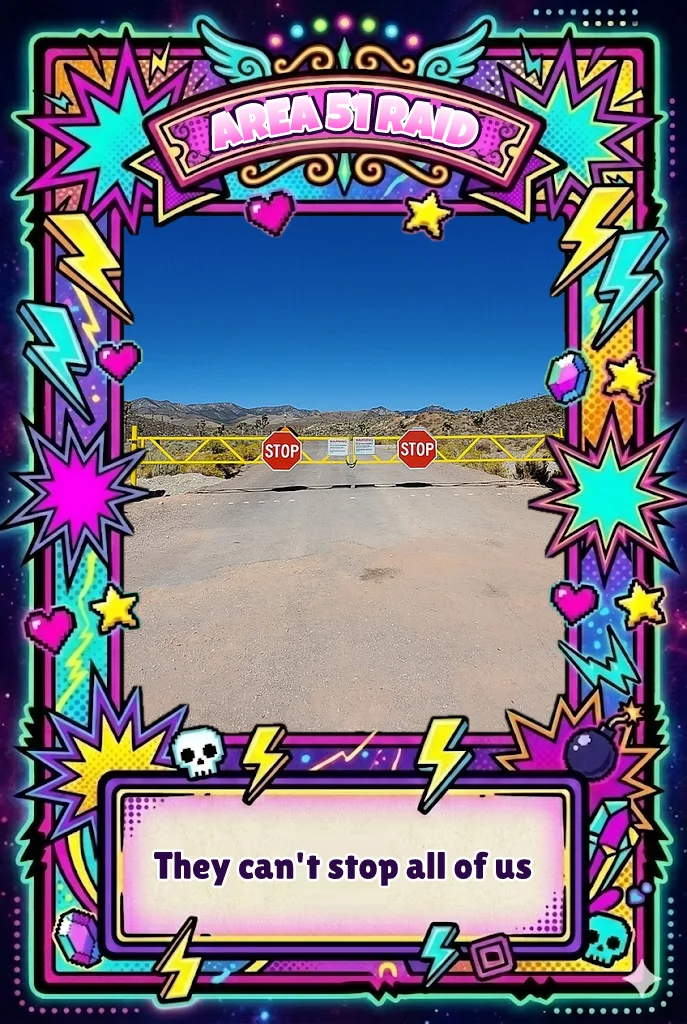
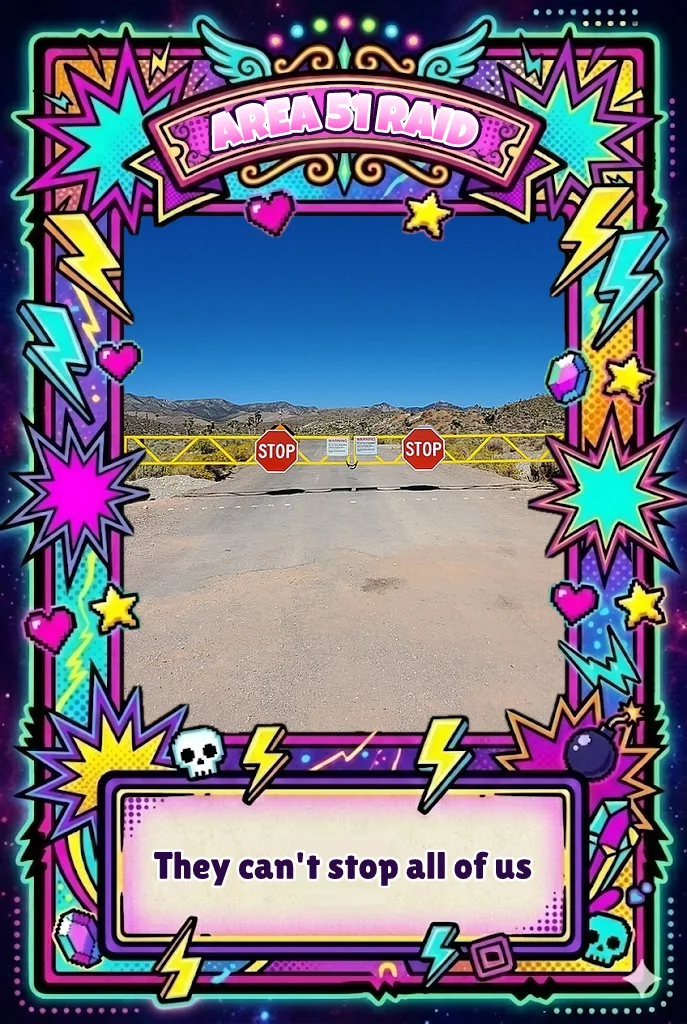
Release Vine & Dank (2013–2019) with real meme images for every card
Woman Yelling at a Cat (Brainrot, the Smudge panel), Dat Boi, Road Work
Ahead, Area 51 Raid, Galaxy Brain, Mr. Skeltal, Mocking SpongeBob, Moth
Lamp, All Those Chickens, Dancing Hot Dog, OK Boomer and Fidget Spinner.

Swapped out: Doge (its licensee sued over the photos in Jan 2026) and
Dropped My Croissant (every image centres on a private person). Sources,
owners and licences are in CREDITS.md. Locks vine-and-dank@1.

Claude-Session: https://claude.ai/code/session_019EguSi8fJWokM3LRyjoEkU

diff --git a/src/content/sets/index.ts b/src/content/sets/index.ts
@@ -10,13 +10,14 @@
 import { setKey, validateSet, type CardDefinition, type SetDefinition } from '../../engine';
 import genesis from './genesis/set.json';
 import webAncients from './web-ancients/set.json';
+import vineAndDank from './vine-and-dank/set.json';
 import lockdownLore from './lockdown-lore/set.json';
 import genAlphaUprising from './gen-alpha-uprising/set.json';
 import italianBrainrotDeepCuts from './italian-brainrot-deep-cuts/set.json';
 import rightNow from './right-now/set.json';
 
 /** Every version of every set. Display order = timeline order (Genesis first). */
-export const ALL_SET_VERSIONS: SetDefinition[] = [genesis, webAncients, lockdownLore, genAlphaUprising, italianBrainrotDeepCuts, rightNow].map((s) => validateSet(s));
+export const ALL_SET_VERSIONS: SetDefinition[] = [genesis, webAncients, vineAndDank, lockdownLore, genAlphaUprising, italianBrainrotDeepCuts, rightNow].map((s) => validateSet(s));
 
 const byKey = new Map(ALL_SET_VERSIONS.map((s) => [setKey(s), s]));
 if (byKey.size !== ALL_SET_VERSIONS.length) throw new Error('Duplicate set@version in registry');

diff --git a/src/content/sets/vine-and-dank/CREDITS.md b/src/content/sets/vine-and-dank/CREDITS.md
@@ -1,0 +1,44 @@
+# Vine & Dank: image credits
+
+These are the real meme images used for card art. Each one was downloaded once, checked with Pillow,
+re-encoded to PNG (which strips metadata) and cropped to the art window's 6:7 portrait shape. Code adds
+the frame, title and caption. All rights stay with the owners listed below. The set is still a draft.
+
+For the ten images from the first pass, I downloaded each listed URL again and matched it against that
+pass's download. Eight matched byte for byte. I re-cropped Area 51 from the same file. I replaced the
+OK Boomer and All Those Chickens images with copies whose sources I could trace (see their notes).
+
+| Card | Source page | Image URL | Creator / owner | Notes |
+| --- | --- | --- | --- | --- |
+| Fidget Spinner (`fidget-spinner`) | https://commons.wikimedia.org/wiki/File:Fidget_spinner_red,_cropped.jpg (entry: https://knowyourmeme.com/memes/subcultures/fidget-spinners) | https://upload.wikimedia.org/wikipedia/commons/thumb/f/f3/Fidget_spinner_red%2C_cropped.jpg/1280px-Fidget_spinner_red%2C_cropped.jpg | Photo by Árni Dagur (Wikimedia user ArniDagur), May 28, 2017. **CC0** (public domain dedication) | KYM's main image is a small 360×297 product shot, so I used this clean, freely licensed photo of the 2017 fad toy. 1280 px Commons thumbnail of the 2671×2671 original. |
+| OK Boomer (`ok-boomer`) | https://globalnews.ca/news/6133526/ok-boomer-meaning-chloe-swarbrick/ (entry: https://knowyourmeme.com/memes/ok-boomer) | https://globalnews.ca/wp-content/uploads/2019/11/swarbrick.jpg | Parliament TV footage of the New Zealand House of Representatives, Nov 5, 2019 (Zero Carbon Bill second reading). Shows Green MP Chlöe Swarbrick | KYM's main image is only the words "Ok Boomer". Swarbrick is a public figure, and this is her famous meme moment. The first pass used a 1280×720 copy of this footage that I couldn't trace, so I swapped in this larger, documented still. The crop leaves out the "Speech 10 of 12" badge and Minister James Shaw. NZ Parliament's Standing Orders limit how House footage can be reused. Political advertising needs consent, and older versions of the rules barred commercial use (the satire ban was dropped in the late 2010s). Check the current rules before release. |
+| Dancing Hot Dog (`dancing-hot-dog`) | https://knowyourmeme.com/memes/dancing-hot-dog-snapchat-filter | https://i.kym-cdn.com/entries/icons/original/000/023/354/Screen_Shot_2017-07-05_at_11.59.26_AM.jpg | Snap Inc. (Snapchat World Lens, June 2017) | KYM's main image, a phone screenshot with no text. Faint purple scanlines from the screen capture remain. Searches found no takedowns or lawsuits (Snap sells its own hot dog merch). |
+| All Those Chickens (`all-those-chickens`) | https://tenor.com/view/look-at-all-those-chickens-chicken-look-lots-of-chickens-gif-3562428 (KYM has no entry, only a photo: https://knowyourmeme.com/photos/2118765) | https://media1.tenor.com/m/mXuaduc_jzkAAAAC/look-at-all-those-chickens-chicken.gif | Original Vine. I couldn't identify the uploader | Frame 96 of the GIF: snow geese and houses only. The narrator is a young girl, and she appears in other frames, so I picked a frame without her. The first pass used an untraced 496×280 copy of the same clip (it matched this GIF within re-encoding noise), so I re-cropped from this documented copy. The source is a 497×280 GIF, so the crop is only 239×279 and soft. Moved from UNCOMMON to COMMON (see below). |
+| Moth Lamp (`moth-lamp`) | https://knowyourmeme.com/photos/1413783-moth-lamp (entry: https://knowyourmeme.com/memes/moth-lamp) | https://i.kym-cdn.com/photos/images/original/001/413/783/c81.jpg | Photo by Redditor u/No_Reason27 ("Close up of moth outside my window", July 14, 2018) | The original photo, from a screenshot of the Reddit post in KYM's origin section. The crop stays inside the photo, so none of Reddit's interface text shows. Crop is 389×455. |
+| Mocking SpongeBob (`mocking-spongebob`) | https://knowyourmeme.com/memes/mocking-spongebob | https://i.kym-cdn.com/entries/icons/original/000/022/940/mockingspongebobbb.jpg | Still from *SpongeBob SquarePants*, "Little Yellow Book" (Nov 25, 2012), owned by Nickelodeon / Paramount. Meme started with Twitter user @OGBEARD on May 4, 2017 | KYM's main image: SpongeBob cut out on white, with no text. He's wider than the card, so I extended the white background above and below him instead of cutting into him. I found no takedowns or lawsuits over the meme, and Nickelodeon embraced it: it's SpongeBob's taunt in *Nickelodeon All-Star Brawl* (2021). New card (see below). |
+| Mr. Skeltal (`mr-skeltal`) | https://knowyourmeme.com/memes/skull-trumpet-doot-doot | https://i.kym-cdn.com/entries/icons/original/000/011/121/Jazzy_Skull.gif | "jazzskull.gif" by Cathy Jarboe, posted on her site cjarboe.com in 1999 (credited by KYM after YouTuber Jeffiot traced it in Dec 2023) | First frame of KYM's main GIF, on black, with no text. |
+| Galaxy Brain (`galaxy-brain`) | https://imgflip.com/memetemplate/Expanding-Brain (entry: https://knowyourmeme.com/memes/galaxy-brain) | https://i.imgflip.com/1jwhww.jpg | The brain artwork in the template is uncredited. The format spread from r/dankmemes (post by janskishimanski, Jan 31, 2017) | Crop of the template's last panel, the glowing "galaxy brain", with no text. KYM's main image is a small 455×278 two-panel crop. |
+| Area 51 Raid (`area-51-raid`) | https://commons.wikimedia.org/wiki/File:Area_51_Main_Gate.jpg (entry: https://knowyourmeme.com/memes/events/storm-area-51) | https://upload.wikimedia.org/wikipedia/commons/thumb/1/14/Area_51_Main_Gate.jpg/1280px-Area_51_Main_Gate.jpg | Photo by David James Henry (Wikimedia user RobotGoggles), Sept 22, 2019. **CC BY-SA 4.0**: credit him, and share the cropped version under the same license | Taken two days after the Sept 20, 2019 "raid" date. KYM's main image looks like a Getty Images photo (its file name starts with `GTY_`), so I didn't use it. I re-cropped tighter on the stop signs so they read at card size. |
+| Road Work Ahead (`road-work-ahead`) | https://commons.wikimedia.org/wiki/File:Road_Work_Ahead.jpg (entry: https://knowyourmeme.com/memes/road-work-ahead) | https://upload.wikimedia.org/wikipedia/commons/thumb/4/4f/Road_Work_Ahead.jpg/1280px-Road_Work_Ahead.jpg | Photo by Wikimedia user JimboGimmeJoe ("own work", Aug 24, 2026). **CC BY 4.0**: credit required. The meme is Drew Gooden's 2016 Vine | KYM's main image is a YouTube thumbnail of the Vine. This is a clean photo of the sign the Vine is about. The sign's printed words are the meme, so they stay. |
+| Dat Boi (`dat-boi`) | https://knowyourmeme.com/photos/2114213-dat-boi (entry: https://knowyourmeme.com/memes/dat-boi) | https://i.kym-cdn.com/photos/images/original/002/114/213/714.gif | 3D clip art from Animation Factory (designer Josh Doohen, uploaded 2003). The meme took off on Tumblr and Twitter in 2015–2016 | A GIF frame from KYM's gallery, on white, with no text. KYM's main image (`HereDatBoi.jpg`) has the caption text, so I didn't use it. I found no takedowns or lawsuits. |
+| Woman Yelling at a Cat (`woman-yelling-at-a-cat`) | https://knowyourmeme.com/memes/smudge-the-cat (entry: https://knowyourmeme.com/memes/woman-yelling-at-a-cat) | https://i.kym-cdn.com/entries/icons/original/000/030/729/smudgeyyy.jpg | Smudge the cat, owned by Miranda Stillabower (Ottawa). The photo was posted by Tumblr user deadbefordeath, "he no like vegetals" (June 19, 2018). The woman panel is Taylor Armstrong and Kyle Richards in *The Real Housewives of Beverly Hills* (Bravo, Dec 5, 2011). The two were first paired by Twitter user @MISSINGEGIRL (May 1, 2019) | The right half of KYM's Smudge header: the dinner-table photo, with no text. The left half (another Smudge photo) isn't used. A two-panel meme doesn't fit a portrait card, so the card shows the cat panel, which is famous on its own (over a million Instagram followers as @smudge_lord). Searches found no lawsuits, takedowns or trademark filings. New BRAINROT card (see below). |
+
+## Replaced cards
+
+| Removed card | Replaced by | Why |
+| --- | --- | --- |
+| Dropped My Croissant (`dropped-my-croissant`, COMMON) | Mocking SpongeBob (UNCOMMON). All Those Chickens moved down to fill the COMMON slot | The 2014 Vine and KYM's main image (https://i.kym-cdn.com/entries/icons/original/000/036/917/croissantcover.jpg, from https://knowyourmeme.com/memes/i-couldve-dropped-my-croissant) are all about a private individual. A croissant photo isn't the meme, so no famous image works without him. |
+| Doge (`doge`, BRAINROT) | Woman Yelling at a Cat (BRAINROT) | The rights owner enforces. In Jan 2024, Kabosu's owner Atsuko Sato gave Doge LLC (the "Own The Doge" group) an exclusive license to the Doge Meme, covering merchandise, games, plush toys and meme coins, with the right to "register, enforce, defend". On Jan 6, 2026, Doge LLC filed a federal copyright and Lanham Act suit over Sato's dog photos: *Doge LLC v. Cocoro Community Project, Inc.*, D.N.J. No. 2:26-cv-00072 (complaint: https://assets.alm.com/19/8d/58cbebf54723a7c24e22d0735131/doge-v-cocoro-community-project-complaint-u-s-distict-court-for-the-district-of-new-jersey.pdf). In 2024 the group said it wouldn't go after people making memes (https://cointelegraph.com/news/doge-image-kabosu-rights-dao-meme), but a card game is exactly the commercial use it licenses. |
+
+### How the replacements were picked
+
+- **Woman Yelling at a Cat** has the most KYM views of any usable 2013–2019 meme I checked: 5.4M, against
+  Dat Boi's 3.6M and Doge's 14.7M. That's why it takes the BRAINROT slot.
+- **Mocking SpongeBob** (2.2M views) is better known than All Those Chickens, which has no KYM entry at all.
+  So it took the UNCOMMON slot, and Chickens moved down to the croissant's COMMON slot.
+- **Ruled out:**
+  - Big Chungus: Warner Bros. filed an EU trademark in Aug 2022 that covers games and toys, and Genesis
+    already has a Big Chungus card.
+  - Surprised Pikachu: The Pokémon Company is known for frequent takedowns.
+  - Harambe and Pepe: both are tied to hate and harassment campaigns.
+  - Distracted Boyfriend: the people in the stock photo are private individuals.

diff --git a/src/content/sets/vine-and-dank/PROMPTS.md b/src/content/sets/vine-and-dank/PROMPTS.md
@@ -1,6 +1,6 @@
 # Vine & Dank (2013–2019): art prompts
 
-Generated by `npm run prompts`. **12 of 12 cards still need a real image.**
+Generated by `npm run prompts`. Every card has a real image. 🎉
 
 ## How to use (free, Gemini app)
 
@@ -24,87 +24,87 @@ Reply "ready" and wait for the first brief.
 
 | Card id | Name | Rarity | Art |
 | --- | --- | --- | --- |
-| `fidget-spinner` | Fidget Spinner | COMMON | 🟡 placeholder |
-| `ok-boomerang` | OK Boomerang | COMMON | 🟡 placeholder |
-| `dancing-hot-dog` | Dancing Hot Dog | COMMON | 🟡 placeholder |
-| `croissant-panic` | Croissant Panic | COMMON | 🟡 placeholder |
-| `moth-lamp` | Moth Lamp | UNCOMMON | 🟡 placeholder |
-| `totally-chickens` | Totally Chickens | UNCOMMON | 🟡 placeholder |
-| `mr-skeltal` | Mr. Skeltal | UNCOMMON | 🟡 placeholder |
-| `galaxy-brain` | Galaxy Brain | RARE | 🟡 placeholder |
-| `area-51-runner` | Area 51 Runner | RARE | 🟡 placeholder |
-| `road-work-sign` | Road Work Ahead | EPIC | 🟡 placeholder |
-| `dat-boi` | Dat Boi | LEGENDARY | 🟡 placeholder |
-| `such-shibe` | Such Shibe | BRAINROT | 🟡 placeholder |
+| `fidget-spinner` | Fidget Spinner | COMMON | ✅ real image |
+| `ok-boomer` | OK Boomer | COMMON | ✅ real image |
+| `dancing-hot-dog` | Dancing Hot Dog | COMMON | ✅ real image |
+| `all-those-chickens` | All Those Chickens | COMMON | ✅ real image |
+| `moth-lamp` | Moth Lamp | UNCOMMON | ✅ real image |
+| `mocking-spongebob` | Mocking SpongeBob | UNCOMMON | ✅ real image |
+| `mr-skeltal` | Mr. Skeltal | UNCOMMON | ✅ real image |
+| `galaxy-brain` | Galaxy Brain | RARE | ✅ real image |
+| `area-51-raid` | Area 51 Raid | RARE | ✅ real image |
+| `road-work-ahead` | Road Work Ahead | EPIC | ✅ real image |
+| `dat-boi` | Dat Boi | LEGENDARY | ✅ real image |
+| `woman-yelling-at-a-cat` | Woman Yelling at a Cat | BRAINROT | ✅ real image |
 
-### Fidget Spinner (`fidget-spinner.png`) 🟡 placeholder
-
-```
-Card: Fidget Spinner (2017). Three-lobed fidget spinner with a cheeky face on the center bearing, motion-blur arcs around it, one sweat drop. Background: bright yellow.
-```
-
-### OK Boomerang (`ok-boomerang.png`) 🟡 placeholder
+### Fidget Spinner (`fidget-spinner.png`) ✅ real image
 
 ```
-Card: OK Boomerang (2019). Wooden boomerang with a smug half-lidded face mid-spin, dotted curved flight path looping back toward it. Background: retro orange-to-pink sunset.
+Card: Fidget Spinner (2017). Photo of a red three-lobed fidget spinner with black bearings on a pale grey background (Wikimedia Commons, CC0).
 ```
 
-### Dancing Hot Dog (`dancing-hot-dog.png`) 🟡 placeholder
+### OK Boomer (`ok-boomer.png`) ✅ real image
 
 ```
-Card: Dancing Hot Dog (2017). Hot dog in a bun with a mustard zigzag, tiny headphones, stubby arms in a disco pose, one leg kicked high. Background: pastel blue with sparkles.
+Card: OK Boomer (2019). Parliament TV still of NZ Green MP Chlöe Swarbrick smiling at her desk mid-speech on 5 Nov 2019, the moment she answered a heckler with "OK boomer".
 ```
 
-### Croissant Panic (`croissant-panic.png`) 🟡 placeholder
+### Dancing Hot Dog (`dancing-hot-dog.png`) ✅ real image
 
 ```
-Card: Croissant Panic (2015). Golden croissant with stick arms hugging itself, huge shocked eyes, screaming mouth, shaking motion lines, a blurry sneaker whooshing past. Background: café pink.
+Card: Dancing Hot Dog (2017). Screenshot of Snapchat's 3D dancing hot dog lens (green headphones, ketchup and mustard zigzags) mid-dance on a living-room floor.
 ```
 
-### Moth Lamp (`moth-lamp.png`) 🟡 placeholder
+### All Those Chickens (`all-those-chickens.png`) ✅ real image
 
 ```
-Card: Moth Lamp (2018). Fluffy cream moth with huge round black eyes and feathery antennae hugging a glowing table lamp, little hearts floating. Background: dark navy night.
+Card: All Those Chickens (2016). Frame from the Vine: a flock of white snow geese grazing on a suburban field in front of a big house. The girl filming is not in this frame.
 ```
 
-### Totally Chickens (`totally-chickens.png`) 🟡 placeholder
+### Moth Lamp (`moth-lamp.png`) ✅ real image
 
 ```
-Card: Totally Chickens (2016). Five white-and-gray geese in a row by a pond, each wearing a tiny fake paper chicken comb, side-eyeing the viewer. Background: green grass and blue pond.
+Card: Moth Lamp (2018). The original July 2018 Reddit photo: a fuzzy brown moth with glowing eyes and long antennae at a window at night.
 ```
 
-### Mr. Skeltal (`mr-skeltal.png`) 🟡 placeholder
+### Mocking SpongeBob (`mocking-spongebob.png`) ✅ real image
 
 ```
-Card: Mr. Skeltal (2014). Grinning cartoon skeleton in a tiny top hat blowing a brass trumpet, 'doot' music notes, a milk carton at its feet. Background: purple.
+Card: Mocking SpongeBob (2017). SpongeBob hunched in his chicken pose from the 2012 episode "Little Yellow Book", cut out on white (Know Your Meme's main image).
 ```
 
-### Galaxy Brain (`galaxy-brain.png`) 🟡 placeholder
+### Mr. Skeltal (`mr-skeltal.png`) ✅ real image
 
 ```
-Card: Galaxy Brain (2017). Pink brain filled with stars and a swirling galaxy, radiating cosmic light rays, tiny smug face. Background: deep space nebula.
+Card: Mr. Skeltal (2014). The 1999 "jazzskull" GIF: a gold 3D skull blowing a brass trumpet held by bony hands, on black.
 ```
 
-### Area 51 Runner (`area-51-runner.png`) 🟡 placeholder
+### Galaxy Brain (`galaxy-brain.png`) ✅ real image
 
 ```
-Card: Area 51 Runner (2019). Faceless runner in a tinfoil hat sprinting with both arms stretched straight back, motion lines, a generic 'KEEP OUT' sign and cacti. Background: orange desert dusk.
+Card: Galaxy Brain (2017). Last panel of the 2017 Expanding Brain template: a glowing blue-white brain in a translucent head, radiating beams of light.
 ```
 
-### Road Work Ahead (`road-work-sign.png`) 🟡 placeholder
+### Area 51 Raid (`area-51-raid.png`) ✅ real image
 
 ```
-Card: Road Work Ahead (2016). Orange diamond road sign with a goofy grin and tiny arms giving a thumbs-up on the road shoulder, traffic cones beside it. Background: bright blue sky.
+Card: Area 51 Raid (2019). Photo of the Area 51 main gate in Nevada two days after the 2019 raid date: a yellow barrier with stop signs across a desert road.
 ```
 
-### Dat Boi (`dat-boi.png`) 🟡 placeholder
+### Road Work Ahead (`road-work-ahead.png`) ✅ real image
 
 ```
-Card: Dat Boi (2016). Cheerful green frog riding a red unicycle, one webbed hand waving, big grin, pedaling motion lines. Background: sunny yellow.
+Card: Road Work Ahead (2016). Photo of an orange diamond ROAD WORK AHEAD sign on a folding stand, on grass in front of a school (Wikimedia Commons).
 ```
 
-### Such Shibe (`such-shibe.png`) 🟡 placeholder
+### Dat Boi (`dat-boi.png`) ✅ real image
 
 ```
-Card: Such Shibe (2013). Tan-and-cream Shiba Inu sitting with body turned, side-eyeing the viewer with raised brows, scattered multicolor floating words ('wow', 'such', 'very'). Background: light gray.
+Card: Dat Boi (2016). The Animation Factory 3D clip-art frog riding an orange unicycle on white, one arm out (frame of the classic GIF).
+```
+
+### Woman Yelling at a Cat (`woman-yelling-at-a-cat.png`) ✅ real image
+
+```
+Card: Woman Yelling at a Cat (2019). Smudge the white cat at a dinner table behind a plate of salad, grimacing: his owner's 2018 photo, the meme's cat panel.
 ```
